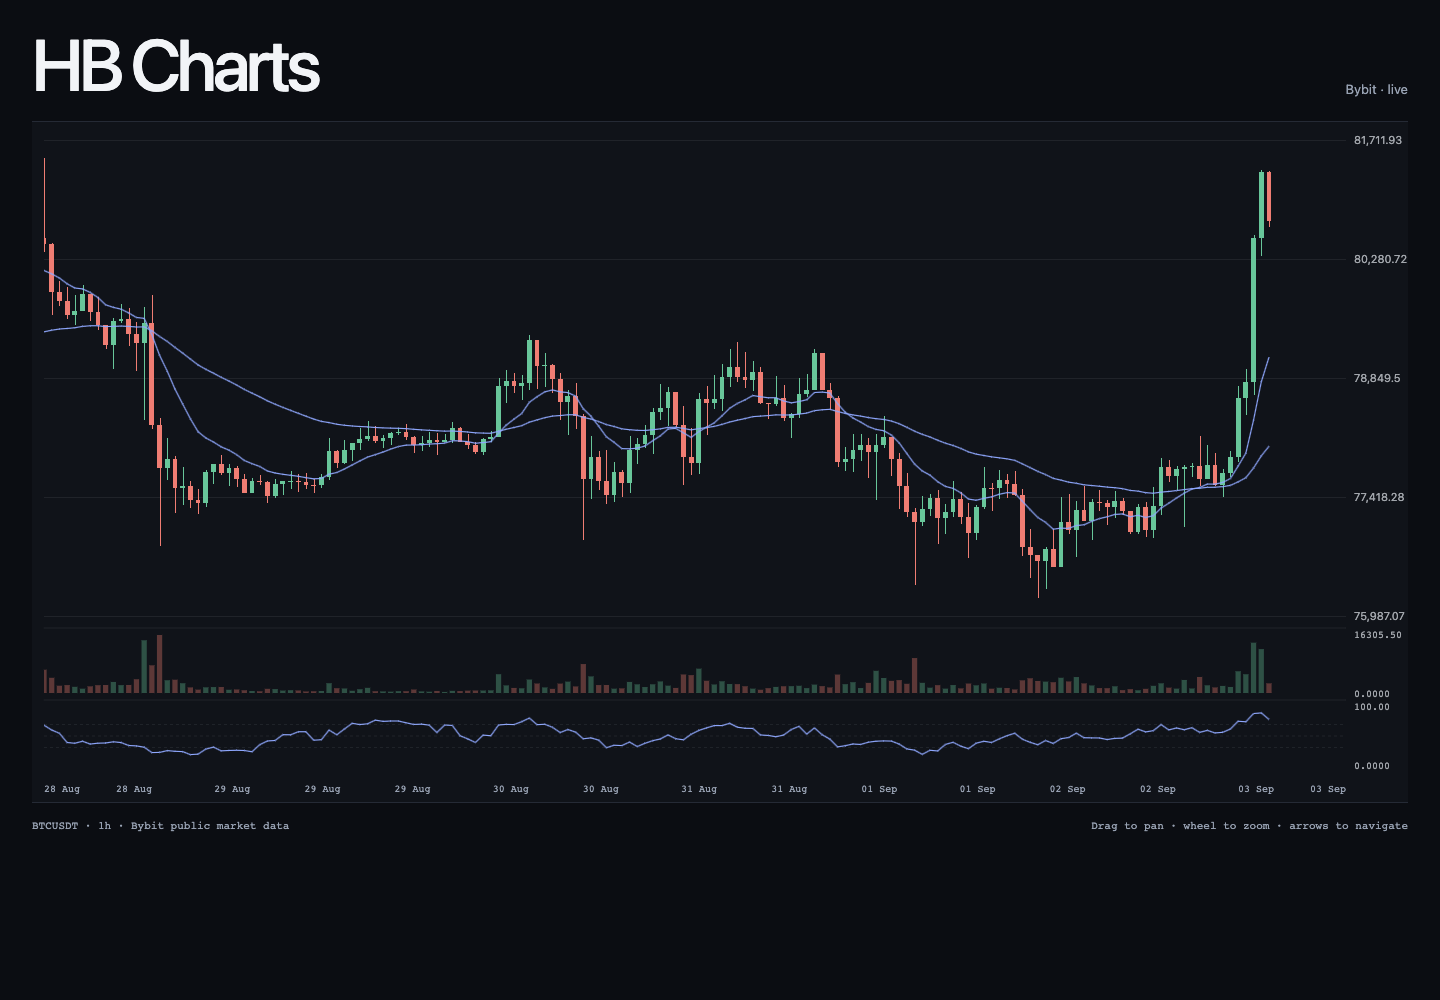
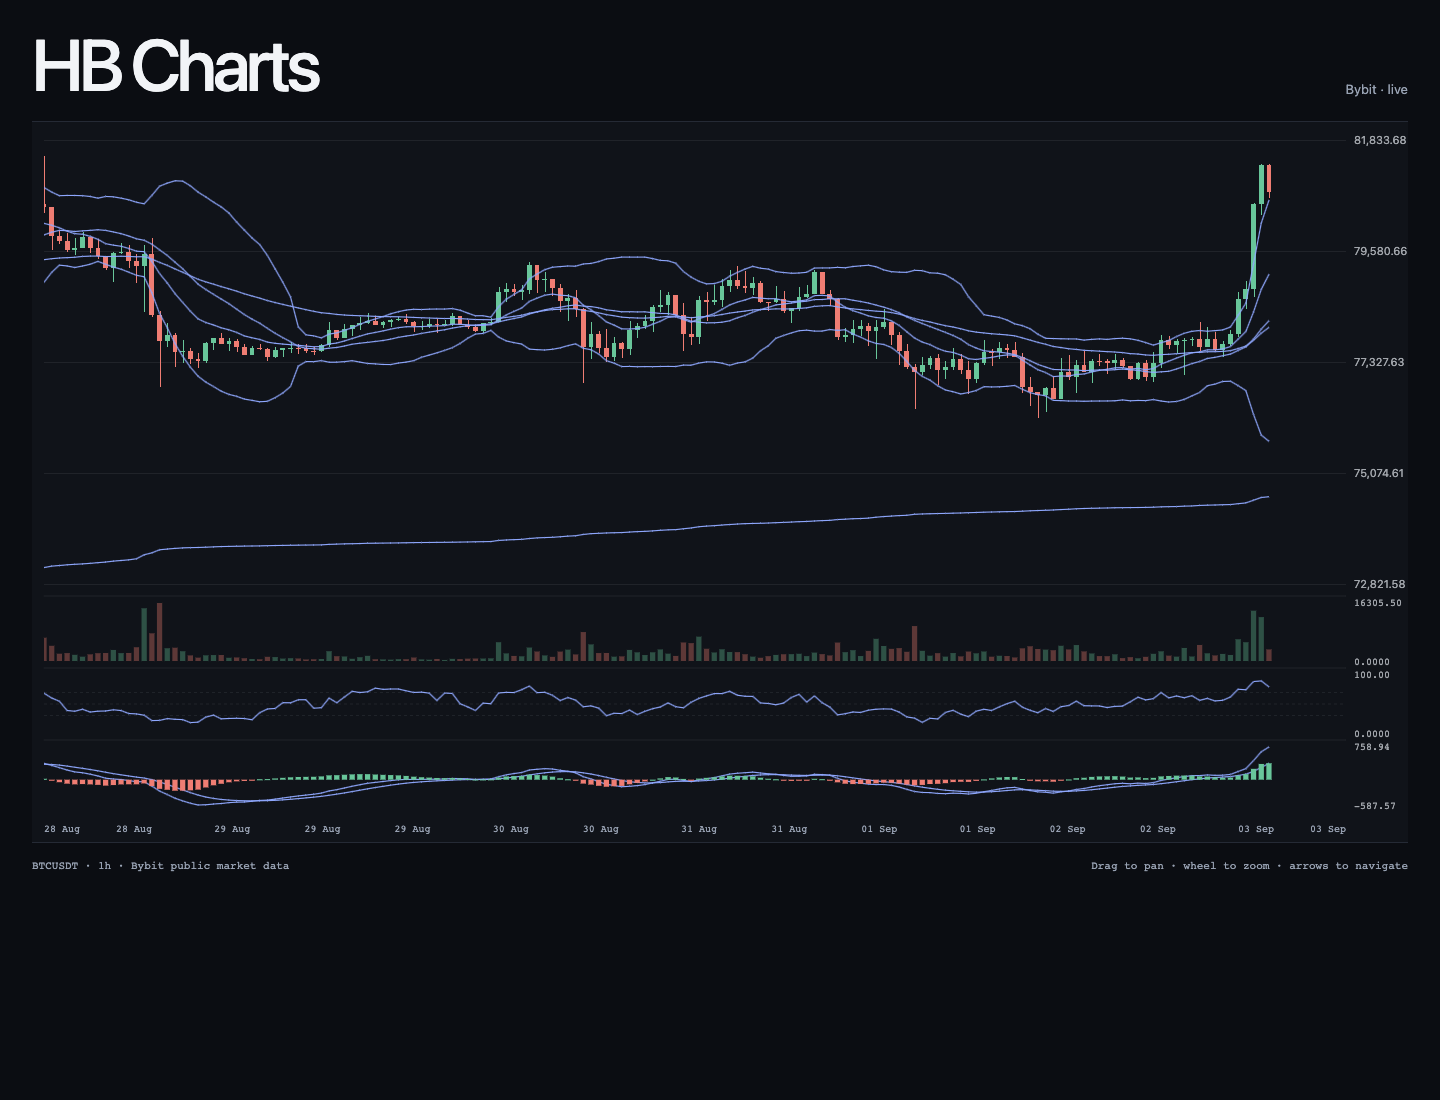
docs: show production and advanced chart examples

diff --git a/playground/main.ts b/playground/main.ts
@@ -27,7 +27,14 @@ async function loadHistory() {
 
 try {
   let bars: ChartBar[] = await loadHistory();
-  const indicators = () => buildStandardIndicators(bars, ["ema", "volume", "rsi"]);
+  const indicators = () => buildStandardIndicators(bars, [
+    "ema",
+    "vwap",
+    "bollinger",
+    "volume",
+    "macd",
+    "rsi",
+  ]);
   const initial = indicators();
   const chart = createChart(container, {
     ariaLabel: "BTCUSDT hourly candlestick chart",

diff --git a/README.md b/README.md
@@ -13,7 +13,19 @@ for ordered OHLCV bars, generic price and pane layers, markers, price levels,
 themes, and viewport interaction. The renderer does not require React; a React
 adapter and public Bybit/OKX realtime adapters are included.
 
-[![HB Charts rendering BTCUSDT candles with EMA, volume, and RSI](docs/assets/hb-charts-demo.png)](https://www.hb-capital.app/charts)
+## In production
+
+HB Charts inside the live HB Capital Markets workspace, combining price,
+session context, studies, and product navigation.
+
+[![HB Charts integrated into the HB Capital Markets workspace](docs/assets/hb-capital-integration.png)](https://www.hb-capital.app/indicators)
+
+## Advanced composition
+
+The standalone public example composes EMA, VWAP, Bollinger Bands, volume,
+MACD, and RSI over live BTCUSDT data.
+
+[![HB Charts advanced BTCUSDT configuration](docs/assets/hb-charts-demo.png)](https://www.hb-capital.app/charts)
 
 > **GitHub source release v0.1.2:** HB Charts is not published to npm yet. Clone
 > the repository or install the pinned GitHub tag. Compiled ESM and declarations
